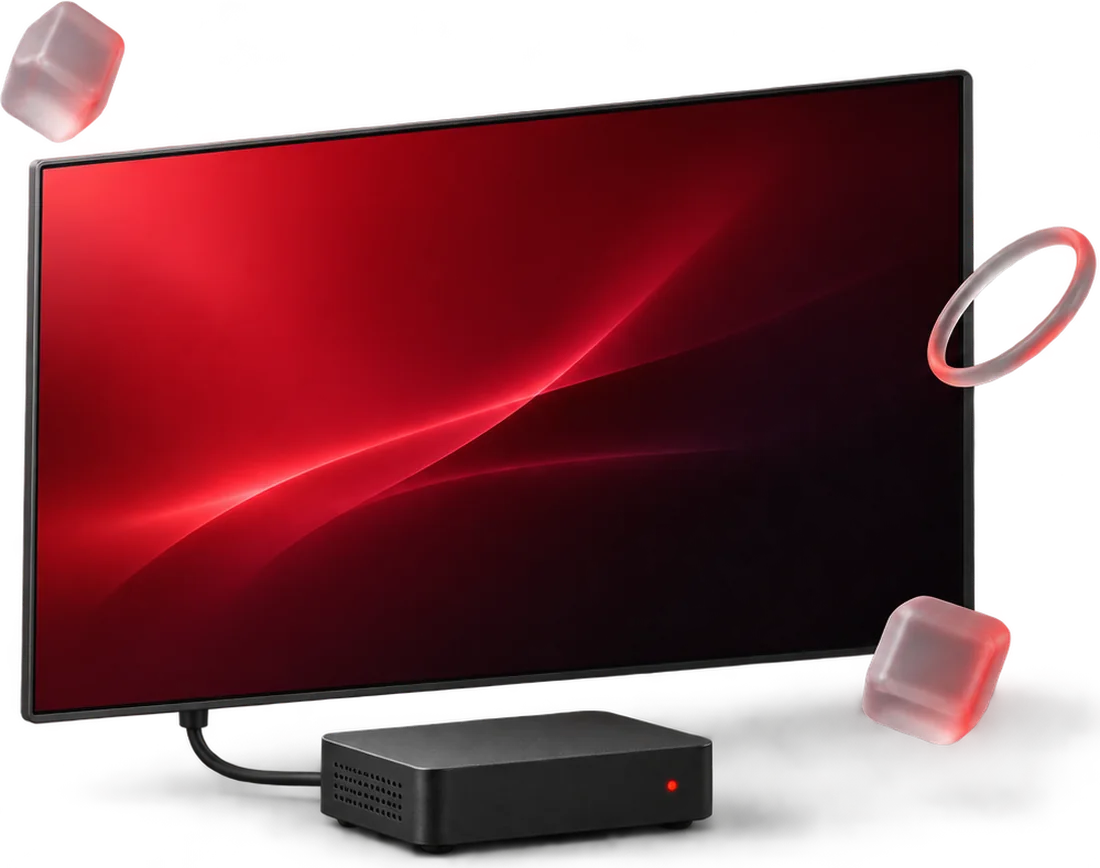
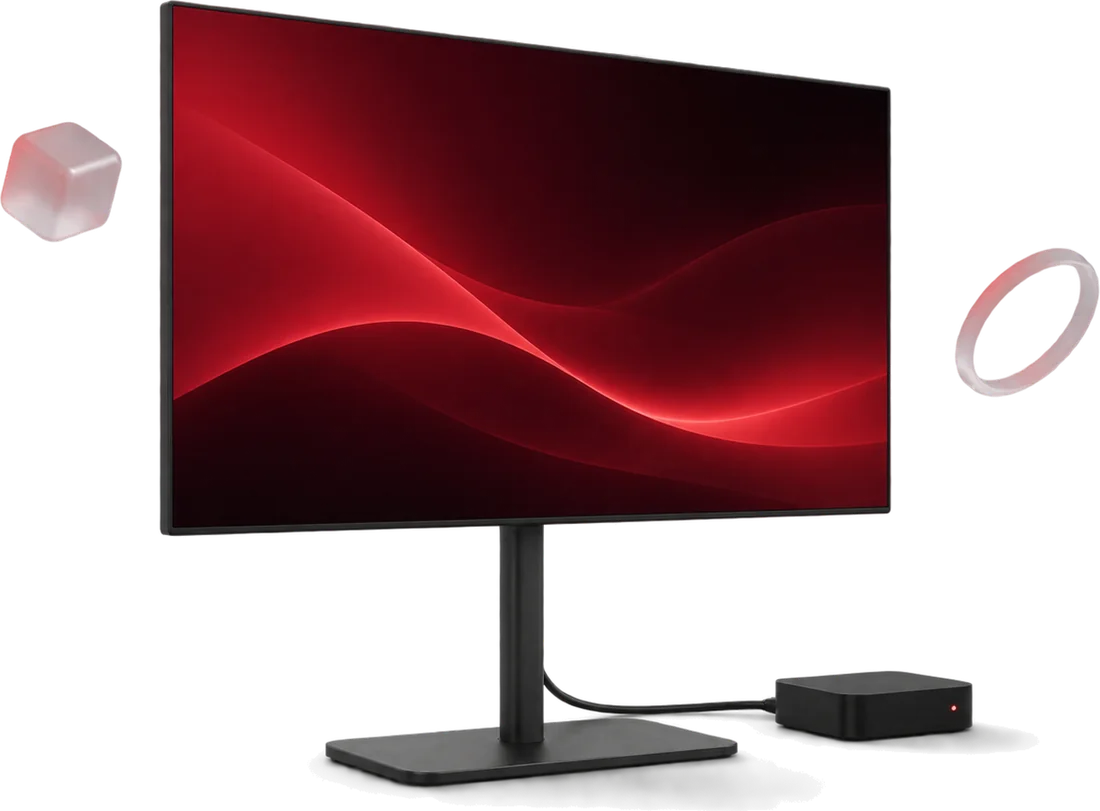
v2.5.4: corrected-perspective hero artwork (display on stand + player)
Claude-Session: https://claude.ai/code/session_01VQsiCgPwt4sAnDJyWXuQQg

diff --git a/index.html b/index.html
@@ -307,7 +307,7 @@ body.rg .btn.primary{background:var(--acc);border-color:var(--acc)}
 body.rg .btn.primary:hover{filter:brightness(.92)}
 .rg-hero{position:relative;overflow:hidden;color:#fff;padding:22px 0 54px;background:radial-gradient(900px 500px at 85% 10%,rgba(255,255,255,.14),transparent 60%),linear-gradient(135deg,#1A0B0D 0%,var(--acc2) 45%,var(--acc) 100%)}
 body.rg-bs .rg-hero{background:radial-gradient(900px 500px at 85% 10%,rgba(255,255,255,.14),transparent 60%),linear-gradient(135deg,#120F2E 0%,#312E81 45%,#7C3AED 82%,#C8232C 130%)}
-.rg-art3d{position:absolute;right:max(0px,calc((100vw - 1160px)/2));top:40px;width:430px;max-width:none;pointer-events:none;user-select:none;
+.rg-art3d{position:absolute;right:max(0px,calc((100vw - 1160px)/2));top:60px;width:430px;max-width:none;pointer-events:none;user-select:none;
   filter:drop-shadow(0 30px 40px rgba(0,0,0,.35));animation:artin .9s cubic-bezier(.2,.7,.2,1) both,float 7s ease-in-out .9s infinite}
 @keyframes artin{from{opacity:0;transform:translateY(24px) scale(.97)}to{opacity:1;transform:none}}
 @keyframes float{50%{transform:translateY(-8px)}}
@@ -386,7 +386,7 @@ body.rg .foot{padding-bottom:96px}
    ============================================================= */
 const SB_URL = "https://nnointygnobmivjaebcr.supabase.co";
 const SB_KEY = "sb_publishable_9-cHSg4bFAULoCUAys9hFg__KuBvmGW";
-const APP_VERSION = "2.5.3";
+const APP_VERSION = "2.5.4";
 const FN_URL = SB_URL + "/functions/v1/tw-mailer";
 
 /* ---------------- helpers ---------------- */
